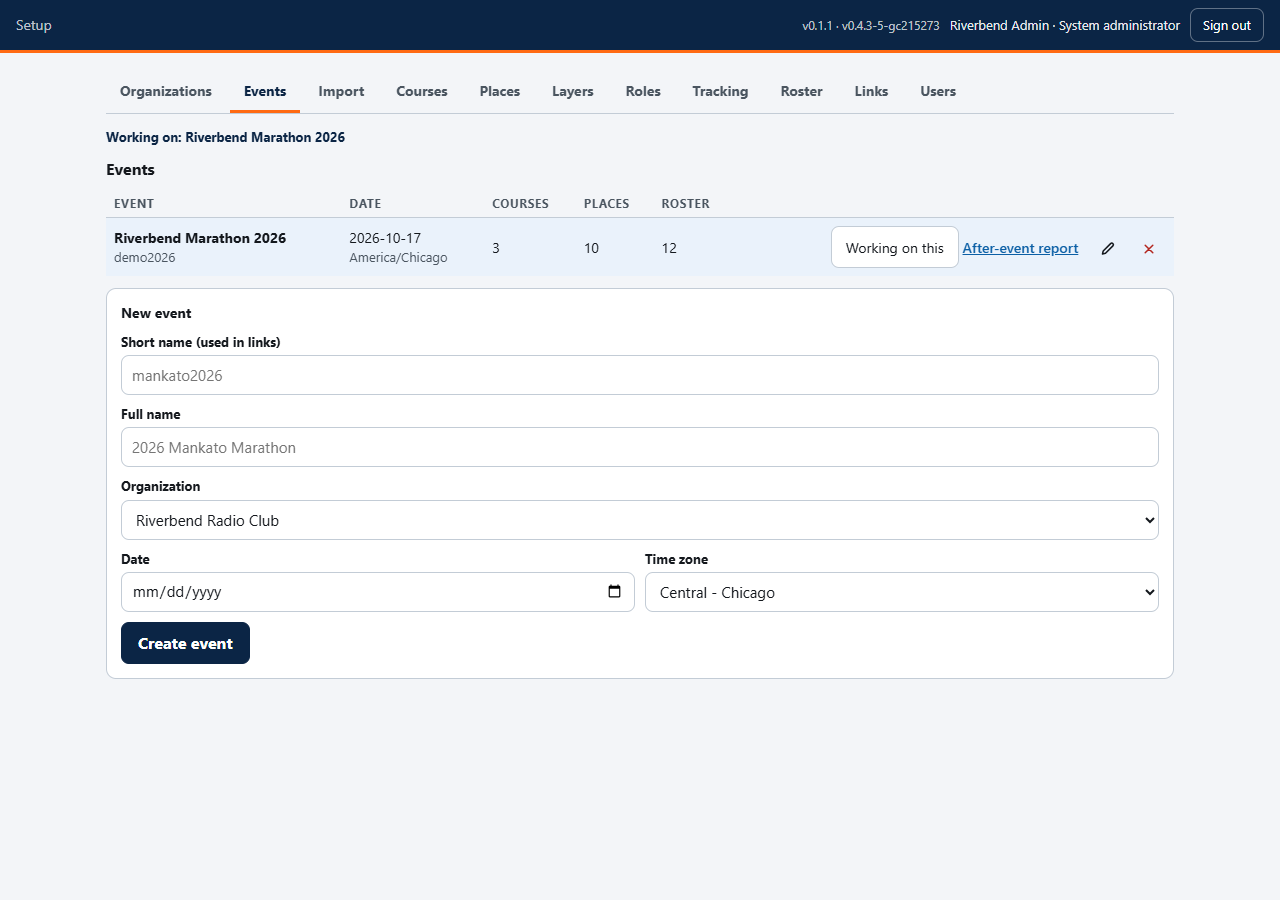
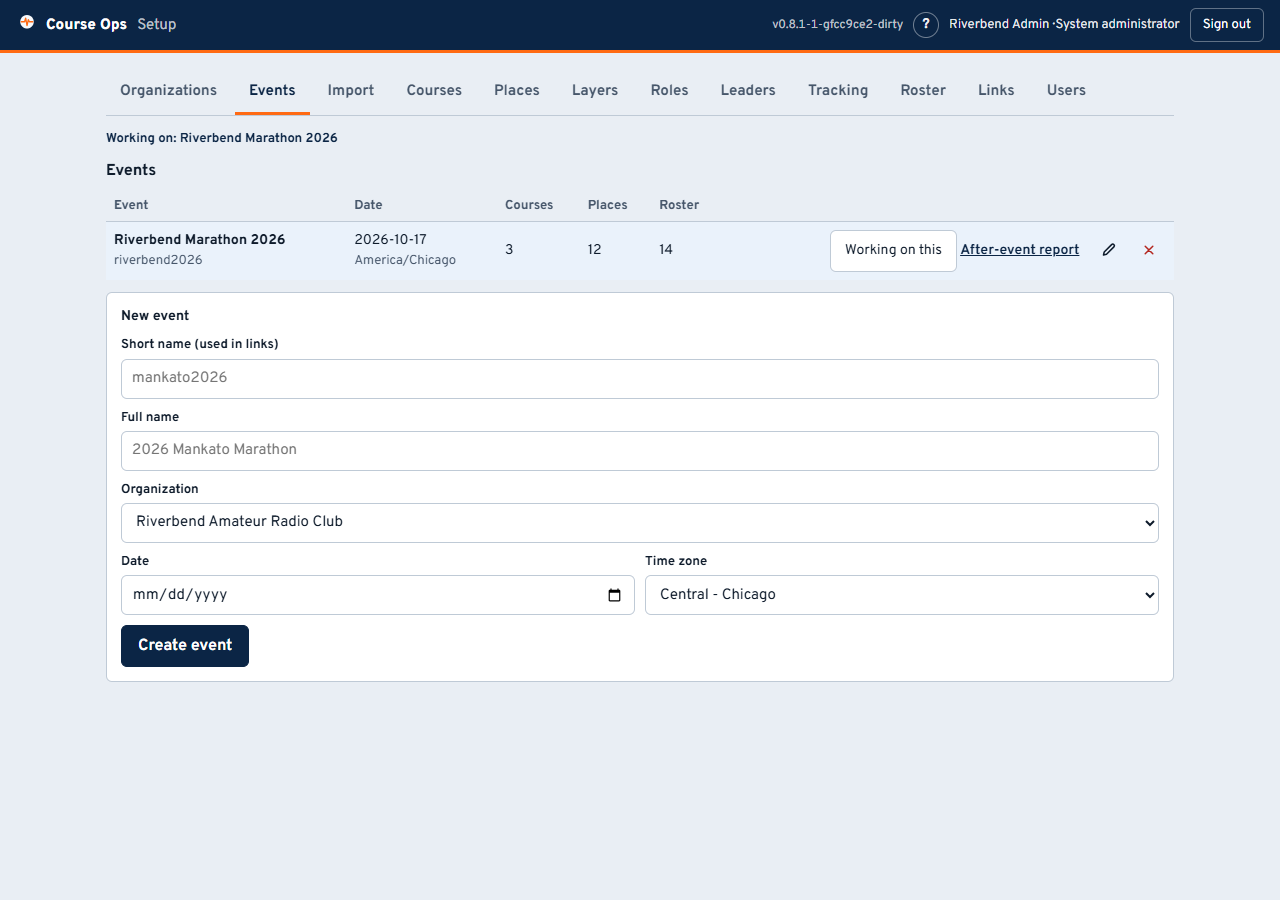
wip: setup on a phone

diff --git a/src/courseops/static/setup.css b/src/courseops/static/setup.css
@@ -472,14 +472,104 @@ table.grid button:not(.icon-btn) {
 a.icon-btn { color: var(--ink); text-decoration: none; }
 a.icon-btn[hidden] { display: none; }
 
-@media (max-width: 640px) {
+/* --- setup on a phone ----------------------------------------------------
+
+   Below 700px, the same number the map uses for its phone tier. A club
+   officer fixes a callsign from the car park on race morning; that has to
+   work on the phone in their hand, not only at the desk it was set up from.
+
+   Two things change and nothing else: the tab bar becomes one row that
+   scrolls sideways, and every table becomes a stack of cards, one per row,
+   each cell labelled with its column heading. The cells, inputs and buttons
+   are the SAME elements - the card is a layout, not a second rendering - so
+   `bindSaveAll` and the drag handles keep working untouched. */
+@media (max-width: 699px) {
   /* The bar holds the lockup, the help ring and Sign out; who is signed in
      is on the Users tab and was wrapping the bar to three lines. */
   #setup-bar { padding: 8px 12px; gap: 8px; }
   #whoami { display: none; }
-  #setup-title { flex: 1; }
+  /* The map's bar drops the wordmark under 460px to make room for the
+     connection badge; there is no badge here, so the name stays and the
+     word "Setup" goes instead - the tab bar underneath already says it.
+     The version chip stays: a deploy from a phone is confirmed by reading
+     it. */
+  body.setup #brand-name { display: inline; }
+  #setup-title { display: none; }
+  #app-version { flex: 1; min-width: 0; text-align: right; overflow: hidden; text-overflow: ellipsis; }
+  #logout { white-space: nowrap; }
+  #app { padding: 12px 16px 48px; }
+
+  /* One row, scrolling sideways, bleeding to the screen edges so the last
+     tab is visibly cut off rather than looking like the end of the list.
+     The active tab is scrolled into view by activateTab(). */
+  #tabs {
+    flex-wrap: nowrap;
+    overflow-x: auto;
+    margin: 0 -16px 12px;
+    padding: 0 16px;
+    scrollbar-width: none;
+    -webkit-overflow-scrolling: touch;
+    scroll-padding: 0 16px;
+  }
+  #tabs::-webkit-scrollbar { display: none; }
+  .tab { flex: none; padding: 0 12px; }
+
   .row > .field { min-width: 100%; }
-  table.grid { font-size: 13px; }
+
+  /* Tables as cards. Every cell labelled from its heading: `data-label` is
+     filled in by labelTableCells() in setup.js the moment a table lands. */
+  table.grid, table.grid tbody, table.grid tr { display: block; width: 100%; }
+  table.grid thead { display: none; }
+  table.grid tr {
+    display: flex;
+    flex-wrap: wrap;
+    align-items: center;
+    padding: 10px 0 12px;
+    border-bottom: 1px solid var(--line);
+  }
+  table.grid td { flex: 1 1 100%; }
+  /* The grip and the select-all checkbox share a line at the top. */
+  table.grid td:not([data-label]):not(.actions) { flex: 0 0 auto; padding-right: 10px; }
+  table.grid tr:last-child { border-bottom: 0; }
+  /* Flex, not grid: a cell may hold several things - a mile and its course,
+     two coordinate boxes and a copy button, a row of race checkboxes - and
+     they keep flowing inline after the label exactly as they did across the
+     desktop column. Anything too wide (a full-width input) wraps under it. */
+  table.grid td {
+    display: flex;
+    flex-wrap: wrap;
+    align-items: center;
+    gap: 4px 8px;
+    padding: 3px 0;
+    border: 0;
+    font-size: 15px;
+  }
+  table.grid td[data-label]::before {
+    content: attr(data-label);
+    flex: 0 0 84px;
+    font-size: 12px;
+    font-weight: 650;
+    color: var(--ink-soft);
+  }
+  /* Actions go to the right, where the thumb is. */
+  table.grid td.actions {
+    display: flex;
+    justify-content: flex-end;
+    gap: 6px;
+    padding-top: 8px;
+  }
+  table.grid td.grip-cell { width: auto; }
+  /* Inputs sized for a desktop column stretch to the card instead. */
+  table.grid td input:not([type="checkbox"]):not([type="color"]):not(.pos):not(.coord):not(.pin-label) {
+    width: 100% !important; min-height: 40px;
+  }
+  table.grid td select { width: auto !important; max-width: 100%; min-height: 40px; }
+  table.grid td input, table.grid td select { font-size: 16px; }  /* no iOS zoom */
+  table.grid .link-label { width: 100%; }
+
+  /* Links: the label above the URL, the buttons under it. */
+  .link-label { width: 100%; }
+  .link-line .link-url { flex-basis: 100%; }
 }
 
 /* Two characters is the whole budget - the pin is 24px on the map. The input

diff --git a/src/courseops/static/setup.js b/src/courseops/static/setup.js
@@ -166,9 +166,47 @@ const HELP_FOR_TAB = {
   tracking: 'setup-race-week',
 };
 
+// On a phone the tab bar scrolls sideways, and a tab activated by a
+// [data-goto] button may be off the edge. Bring it in; on a wide screen
+// this is a no-op.
+function revealTab(tab) {
+  if (tab && tab.scrollIntoView) {
+    tab.scrollIntoView({ block: 'nearest', inline: 'center' });
+  }
+}
+
+// Every table cell carries its column heading, so the phone layout can
+// print it beside the value. Done here, once, for every table the setup
+// screen ever renders, rather than in each of the nine render functions.
+// Headings that are empty or hold a control (the select-all checkbox) give
+// no label, and the cell takes the full width of the card.
+function labelTableCells(root) {
+  root.querySelectorAll('table.grid').forEach((table) => {
+    const heads = [...table.querySelectorAll('thead th')].map(
+      (th) => th.querySelector('input') ? '' : th.textContent.trim());
+    table.querySelectorAll('tbody tr').forEach((tr) => {
+      [...tr.children].forEach((td, i) => {
+        const label = heads[i] || '';
+        if (label) td.dataset.label = label;
+        else delete td.dataset.label;
+      });
+    });
+  });
+}
+new MutationObserver((records) => {
+  records.forEach((r) => r.addedNodes.forEach((n) => {
+    if (n.nodeType === 1 && (n.matches('table.grid') || n.querySelector('table.grid'))) {
+      labelTableCells(n.parentNode || n);
+    }
+  }));
+}).observe(document.body, { childList: true, subtree: true });
+
 function activateTab(name) {
-  document.querySelectorAll('.tab').forEach(
-    (t) => t.classList.toggle('is-on', t.dataset.tab === name));
+  document.querySelectorAll('.tab').forEach((t) => {
+    const on = t.dataset.tab === name;
+    t.classList.toggle('is-on', on);
+    if (on) revealTab(t);
+  });
   document.querySelectorAll('.panel').forEach((p) => {
     p.hidden = p.dataset.panel !== name;
   });
